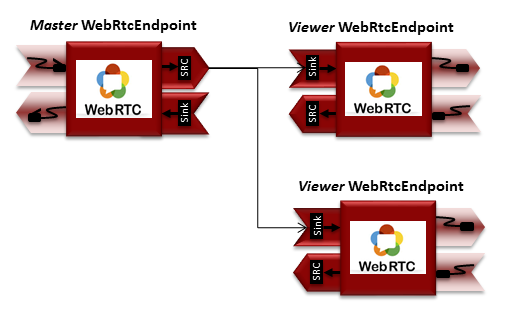
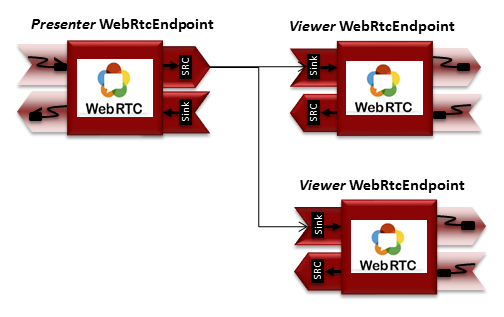
[kurento-one2many] Renamed master by presenter

Changed region(s): [[0.0298, 0.0579, 0.9821, 0.9839]]

diff --git a/kurento-one2many-call/src/main/resources/static/index.html b/kurento-one2many-call/src/main/resources/static/index.html
@@ -52,29 +52,29 @@
 					href="http://www.webrtc.org/">WebRTC</a>. In other words, this is
 				an implementation of a video broadcasting application. There are two
 				types of users in this application: 1 peer sending media (let's call
-				it <i>Master</i>) and N peers receiving the media of the <i>Master</i>
+				it <i>Presenter</i>) and N peers receiving the media of the <i>Presenter</i>
 				(let's call them <i>Viewers</i>). Thus, the <a
 					href="img/pipeline.png" data-toggle="lightbox"
 					data-title="Video Call 1 to N Media Pipeline"
-					data-footer="1 WebRtcEnpoint (Master) is set in SendOnly mode, and its stream is sent to N WebRtcEnpoints (Viewers), whics are set in RecvOnly mode.">Media
+					data-footer="1 WebRtcEnpoint (Presenter) is set in SendOnly mode, and its stream is sent to N WebRtcEnpoints (Viewers), whics are set in RecvOnly mode.">Media
 					Pipeline</a> is composed by 1+N interconnected <i>WebRtcEndpoints</i>.
 				To run this demo follow these steps:
 			</p>
 			<ol>
 				<li>Open this page with a browser compliant with WebRTC
 					(Chrome, Firefox).</li>
-				<li>If you would like to be the <i>Master</i> of the
-					communication, click on <i>Master</i> button. There can only be one
-					of this kind of peer, and so, if the <i>Master</i> peer is already
+				<li>If you would like to be the <i>Presenter</i> of the
+					communication, click on <i>Presenter</i> button. There can only be one
+					of this kind of peer, and so, if the <i>Presenter</i> peer is already
 					present, the application returns an error (see the the console).
 				</li>
 				<li>Grant the access to the camera and microphone. After the
 					SDP negotiation the communication should start.</li>
 				<li>In a different machine (or a different tab in the same
-					browser) click on <i>Viewer</i> button to see the <i>Master</i>
+					browser) click on <i>Viewer</i> button to see the <i>Presenter</i>
 					stream.
 				</li>
-				<li>Click on <i>Stop</i> to finish the communication. When <i>Master</i>
+				<li>Click on <i>Stop</i> to finish the communication. When <i>Presenter</i>
 					clicks on <i>Stop</i>, the rest of <i>Viewers</i> (if any) ends the
 					communication too.
 				</li>
@@ -85,8 +85,8 @@
 				<div class="row">
 					<div class="col-md-12">
 						<a id="call" href="#" class="btn btn-success"
-							onclick="master(); return false;"><span
-							class="glyphicon glyphicon-play"></span> Master </a> <a id="viewer"
+							onclick="presenter(); return false;"><span
+							class="glyphicon glyphicon-play"></span> Presenter </a> <a id="viewer"
 							href="#" class="btn btn-primary"
 							onclick="viewer(); return false;"><span
 							class="glyphicon glyphicon-user"></span> Viewer</a> <a id="terminate"

diff --git a/kurento-one2many-call/src/main/resources/static/js/index.js b/kurento-one2many-call/src/main/resources/static/js/index.js
@@ -31,8 +31,8 @@ ws.onmessage = function(message) {
 	console.info('Received message: ' + message.data);
 
 	switch (parsedMessage.id) {
-	case 'masterResponse':
-		masterResponse(parsedMessage);
+	case 'presenterResponse':
+		presenterResponse(parsedMessage);
 		break;
 	case 'viewerResponse':
 		viewerResponse(parsedMessage);
@@ -51,7 +51,7 @@ ws.onmessage = function(message) {
 	}
 }
 
-function masterResponse(message) {
+function presenterResponse(message) {
 	if (message.response != 'accepted') {
 		var errorMsg = message.message ? message.message : 'Unknow error';
 		console.info('Call not accepted for the following reason: ' + errorMsg);
@@ -75,7 +75,7 @@ function viewerResponse(message) {
 	}
 }
 
-function master() {
+function presenter() {
 	if (!webRtcPeer) {
 		showSpinner(video);
 
@@ -88,16 +88,16 @@ function master() {
 			  if(error) {
 				  return console.error(error);
 			  }
-			  webRtcPeer.generateOffer (onOfferMaster);
+			  webRtcPeer.generateOffer(onOfferPresenter);
 		});
 	}
 }
 
-function onOfferMaster(error, offerSdp) {
+function onOfferPresenter(error, offerSdp) {
 	if (error) return console.error ("Error generating the offer");
 	console.info('Invoking SDP offer callback function ' + location.host);
 	var message = {
-		id : 'master',
+		id : 'presenter',
 		sdpOffer : offerSdp
 	}
 	sendMessage(message);

diff --git a/kurento-one2many-call/src/main/java/org/kurento/tutorial/one2manycall/CallHandler.java b/kurento-one2many-call/src/main/java/org/kurento/tutorial/one2manycall/CallHandler.java
@@ -44,8 +44,7 @@ import com.google.gson.JsonObject;
  */
 public class CallHandler extends TextWebSocketHandler {
 
-	private static final Logger log = LoggerFactory
-			.getLogger(CallHandler.class);
+	private static final Logger log = LoggerFactory.getLogger(CallHandler.class);
 	private static final Gson gson = new GsonBuilder().create();
 
 	private final ConcurrentHashMap<String, UserSession> viewers = new ConcurrentHashMap<String, UserSession>();
@@ -54,25 +53,22 @@ public class CallHandler extends TextWebSocketHandler {
 	private KurentoClient kurento;
 
 	private MediaPipeline pipeline;
-	private UserSession masterUserSession;
+	private UserSession presenterUserSession;
 
 	@Override
-	public void handleTextMessage(WebSocketSession session, TextMessage message)
-			throws Exception {
-		JsonObject jsonMessage = gson.fromJson(message.getPayload(),
-				JsonObject.class);
-		log.debug("Incoming message from session '{}': {}", session.getId(),
-				jsonMessage);
+	public void handleTextMessage(WebSocketSession session, TextMessage message) throws Exception {
+		JsonObject jsonMessage = gson.fromJson(message.getPayload(), JsonObject.class);
+		log.debug("Incoming message from session '{}': {}", session.getId(), jsonMessage);
 
 		switch (jsonMessage.get("id").getAsString()) {
-		case "master":
+		case "presenter":
 			try {
-				master(session, jsonMessage);
+				presenter(session, jsonMessage);
 			} catch (Throwable t) {
 				stop(session);
 				log.error(t.getMessage(), t);
 				JsonObject response = new JsonObject();
-				response.addProperty("id", "masterResponse");
+				response.addProperty("id", "presenterResponse");
 				response.addProperty("response", "rejected");
 				response.addProperty("message", t.getMessage());
 				session.sendMessage(new TextMessage(response.toString()));
@@ -92,19 +88,17 @@ public class CallHandler extends TextWebSocketHandler {
 			}
 			break;
 		case "onIceCandidate": {
-			JsonObject candidate = jsonMessage.get("candidate")
-					.getAsJsonObject();
+			JsonObject candidate = jsonMessage.get("candidate").getAsJsonObject();
 
 			UserSession user = null;
-			if (masterUserSession.getSession() == session) {
-				user = masterUserSession;
+			if (presenterUserSession.getSession() == session) {
+				user = presenterUserSession;
 			} else {
 				user = viewers.get(session.getId());
 			}
 			if (user != null) {
-				IceCandidate cand = new IceCandidate(candidate.get("candidate")
-						.getAsString(), candidate.get("sdpMid").getAsString(),
-						candidate.get("sdpMLineIndex").getAsInt());
+				IceCandidate cand = new IceCandidate(candidate.get("candidate").getAsString(),
+						candidate.get("sdpMid").getAsString(), candidate.get("sdpMLineIndex").getAsInt());
 				user.addCandidate(cand);
 			}
 			break;
@@ -117,78 +111,67 @@ public class CallHandler extends TextWebSocketHandler {
 		}
 	}
 
-	private synchronized void master(final WebSocketSession session,
-			JsonObject jsonMessage) throws IOException {
-		if (masterUserSession == null) {
-			masterUserSession = new UserSession(session);
+	private synchronized void presenter(final WebSocketSession session, JsonObject jsonMessage) throws IOException {
+		if (presenterUserSession == null) {
+			presenterUserSession = new UserSession(session);
 
 			pipeline = kurento.createMediaPipeline();
-			masterUserSession.setWebRtcEndpoint(new WebRtcEndpoint.Builder(
-					pipeline).build());
+			presenterUserSession.setWebRtcEndpoint(new WebRtcEndpoint.Builder(pipeline).build());
 
-			WebRtcEndpoint masterWebRtc = masterUserSession.getWebRtcEndpoint();
+			WebRtcEndpoint presenterWebRtc = presenterUserSession.getWebRtcEndpoint();
 
-			masterWebRtc
-					.addOnIceCandidateListener(new EventListener<OnIceCandidateEvent>() {
+			presenterWebRtc.addOnIceCandidateListener(new EventListener<OnIceCandidateEvent>() {
 
-						@Override
-						public void onEvent(OnIceCandidateEvent event) {
-							JsonObject response = new JsonObject();
-							response.addProperty("id", "iceCandidate");
-							response.add("candidate", JsonUtils
-									.toJsonObject(event.getCandidate()));
-							try {
-								synchronized (session) {
-									session.sendMessage(new TextMessage(
-											response.toString()));
-								}
-							} catch (IOException e) {
-								log.debug(e.getMessage());
-							}
+				@Override
+				public void onEvent(OnIceCandidateEvent event) {
+					JsonObject response = new JsonObject();
+					response.addProperty("id", "iceCandidate");
+					response.add("candidate", JsonUtils.toJsonObject(event.getCandidate()));
+					try {
+						synchronized (session) {
+							session.sendMessage(new TextMessage(response.toString()));
 						}
-					});
+					} catch (IOException e) {
+						log.debug(e.getMessage());
+					}
+				}
+			});
 
-			String sdpOffer = jsonMessage.getAsJsonPrimitive("sdpOffer")
-					.getAsString();
-			String sdpAnswer = masterWebRtc.processOffer(sdpOffer);
+			String sdpOffer = jsonMessage.getAsJsonPrimitive("sdpOffer").getAsString();
+			String sdpAnswer = presenterWebRtc.processOffer(sdpOffer);
 
 			JsonObject response = new JsonObject();
-			response.addProperty("id", "masterResponse");
+			response.addProperty("id", "presenterResponse");
 			response.addProperty("response", "accepted");
 			response.addProperty("sdpAnswer", sdpAnswer);
 
 			synchronized (session) {
-				masterUserSession.sendMessage(response);
+				presenterUserSession.sendMessage(response);
 			}
-			masterWebRtc.gatherCandidates();
+			presenterWebRtc.gatherCandidates();
 
 		} else {
 			JsonObject response = new JsonObject();
-			response.addProperty("id", "masterResponse");
+			response.addProperty("id", "presenterResponse");
 			response.addProperty("response", "rejected");
-			response.addProperty("message",
-					"Another user is currently acting as sender. Try again later ...");
+			response.addProperty("message", "Another user is currently acting as sender. Try again later ...");
 			session.sendMessage(new TextMessage(response.toString()));
 		}
 	}
 
-	private synchronized void viewer(final WebSocketSession session,
-			JsonObject jsonMessage) throws IOException {
-		if (masterUserSession == null
-				|| masterUserSession.getWebRtcEndpoint() == null) {
+	private synchronized void viewer(final WebSocketSession session, JsonObject jsonMessage) throws IOException {
+		if (presenterUserSession == null || presenterUserSession.getWebRtcEndpoint() == null) {
 			JsonObject response = new JsonObject();
 			response.addProperty("id", "viewerResponse");
 			response.addProperty("response", "rejected");
-			response.addProperty("message",
-					"No active sender now. Become sender or . Try again later ...");
+			response.addProperty("message", "No active sender now. Become sender or . Try again later ...");
 			session.sendMessage(new TextMessage(response.toString()));
 		} else {
 			if (viewers.containsKey(session.getId())) {
 				JsonObject response = new JsonObject();
 				response.addProperty("id", "viewerResponse");
 				response.addProperty("response", "rejected");
-				response.addProperty(
-						"message",
+				response.addProperty("message",
 						"You are already viewing in this session. Use a different browser to add additional viewers.");
 				session.sendMessage(new TextMessage(response.toString()));
 				return;
@@ -196,34 +179,29 @@ public class CallHandler extends TextWebSocketHandler {
 			UserSession viewer = new UserSession(session);
 			viewers.put(session.getId(), viewer);
 
-			String sdpOffer = jsonMessage.getAsJsonPrimitive("sdpOffer")
-					.getAsString();
+			String sdpOffer = jsonMessage.getAsJsonPrimitive("sdpOffer").getAsString();
 
-			WebRtcEndpoint nextWebRtc = new WebRtcEndpoint.Builder(pipeline)
-					.build();
+			WebRtcEndpoint nextWebRtc = new WebRtcEndpoint.Builder(pipeline).build();
 
-			nextWebRtc
-					.addOnIceCandidateListener(new EventListener<OnIceCandidateEvent>() {
+			nextWebRtc.addOnIceCandidateListener(new EventListener<OnIceCandidateEvent>() {
 
-						@Override
-						public void onEvent(OnIceCandidateEvent event) {
-							JsonObject response = new JsonObject();
-							response.addProperty("id", "iceCandidate");
-							response.add("candidate", JsonUtils
-									.toJsonObject(event.getCandidate()));
-							try {
-								synchronized (session) {
-									session.sendMessage(new TextMessage(
-											response.toString()));
-								}
-							} catch (IOException e) {
-								log.debug(e.getMessage());
-							}
+				@Override
+				public void onEvent(OnIceCandidateEvent event) {
+					JsonObject response = new JsonObject();
+					response.addProperty("id", "iceCandidate");
+					response.add("candidate", JsonUtils.toJsonObject(event.getCandidate()));
+					try {
+						synchronized (session) {
+							session.sendMessage(new TextMessage(response.toString()));
 						}
-					});
+					} catch (IOException e) {
+						log.debug(e.getMessage());
+					}
+				}
+			});
 
 			viewer.setWebRtcEndpoint(nextWebRtc);
-			masterUserSession.getWebRtcEndpoint().connect(nextWebRtc);
+			presenterUserSession.getWebRtcEndpoint().connect(nextWebRtc);
 			String sdpAnswer = nextWebRtc.processOffer(sdpOffer);
 
 			JsonObject response = new JsonObject();
@@ -240,8 +218,7 @@ public class CallHandler extends TextWebSocketHandler {
 
 	private synchronized void stop(WebSocketSession session) throws IOException {
 		String sessionId = session.getId();
-		if (masterUserSession != null
-				&& masterUserSession.getSession().getId().equals(sessionId)) {
+		if (presenterUserSession != null && presenterUserSession.getSession().getId().equals(sessionId)) {
 			for (UserSession viewer : viewers.values()) {
 				JsonObject response = new JsonObject();
 				response.addProperty("id", "stopCommunication");
@@ -253,7 +230,7 @@ public class CallHandler extends TextWebSocketHandler {
 				pipeline.release();
 			}
 			pipeline = null;
-			masterUserSession = null;
+			presenterUserSession = null;
 		} else if (viewers.containsKey(sessionId)) {
 			if (viewers.get(sessionId).getWebRtcEndpoint() != null) {
 				viewers.get(sessionId).getWebRtcEndpoint().release();
@@ -263,8 +240,7 @@ public class CallHandler extends TextWebSocketHandler {
 	}
 
 	@Override
-	public void afterConnectionClosed(WebSocketSession session,
-			CloseStatus status) throws Exception {
+	public void afterConnectionClosed(WebSocketSession session, CloseStatus status) throws Exception {
 		stop(session);
 	}
 
